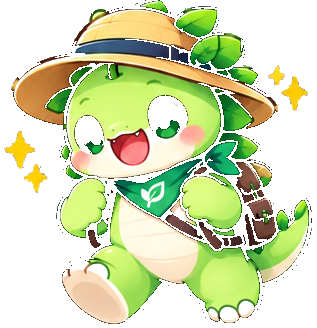
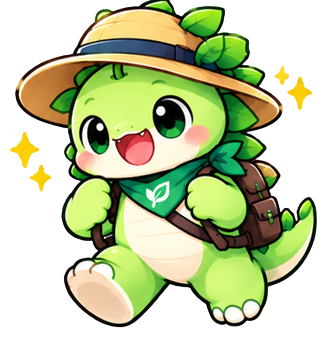
Add files via upload

diff --git a/src/components/views/HolidaysView.jsx b/src/components/views/HolidaysView.jsx
@@ -357,8 +357,12 @@ export default function HolidaysView() {
               </div>
             </div>
 
-            <div className="flex-shrink-0 hidden lg:flex items-center pr-2">
-              <DinoMascot pose="holiday" size={100} className="filter drop-shadow-lg" />
+            <div className="flex-shrink-0 hidden md:flex items-center pr-2">
+              <DinoMascot
+                src="/dino-mascot4.png"
+                size={115}
+                className="filter drop-shadow-xl"
+              />
             </div>
           </div>
         </div>

diff --git a/src/components/DinoMascot.jsx b/src/components/DinoMascot.jsx
@@ -38,7 +38,8 @@ export default function DinoMascot({
         return '/mascot/dino-mascot3.png';
 
       case 'mascot4':
-        return '/mascot/dino-mascot4.png';
+      case 'holiday':
+        return '/dino-mascot4.png';
 
       case 'assistant':
       case 'tablet':
@@ -54,7 +55,6 @@ export default function DinoMascot({
       case 'relax':
         return '/mascot/dinoleaf_sleep.png';
 
-      case 'holiday':
       case 'farmer':
       case 'work':
         return '/mascot/dinoleaf_farmer.png';
